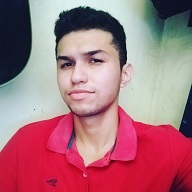
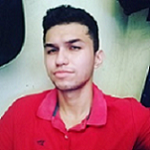
pequenas alterações feitas no username e img de perfil

diff --git a/instagramDio/index.html b/instagramDio/index.html
@@ -15,13 +15,13 @@
             <div class="group">
                 <img src="./img/instagram-logo.png" class="instagram-logo" alt="instagram logo">
                 <div class="profile-photo">
-                    <img src="./img/perfil-instagram.jpg" alt="foto de perfil">
+                    <img src="./img/perfil-instagram.png" alt="foto de perfil">
                 </div>
-                <a href="#" class="instagram-login">Continue como allenjordan</a>
+                <a href="#" class="instagram-login">Continue como allenjordan01</a>
                 <a href="#" class="instagram-logout">Remover conta</a>
             </div>
             <div class="group">
-                <p class="not-account">Não é allenjordan?</p>
+                <p class="not-account">Não é allenjordan01?</p>
                 <p class="not-account">
                     <span class="link-blue">Alternar contas</span>
                     ou
